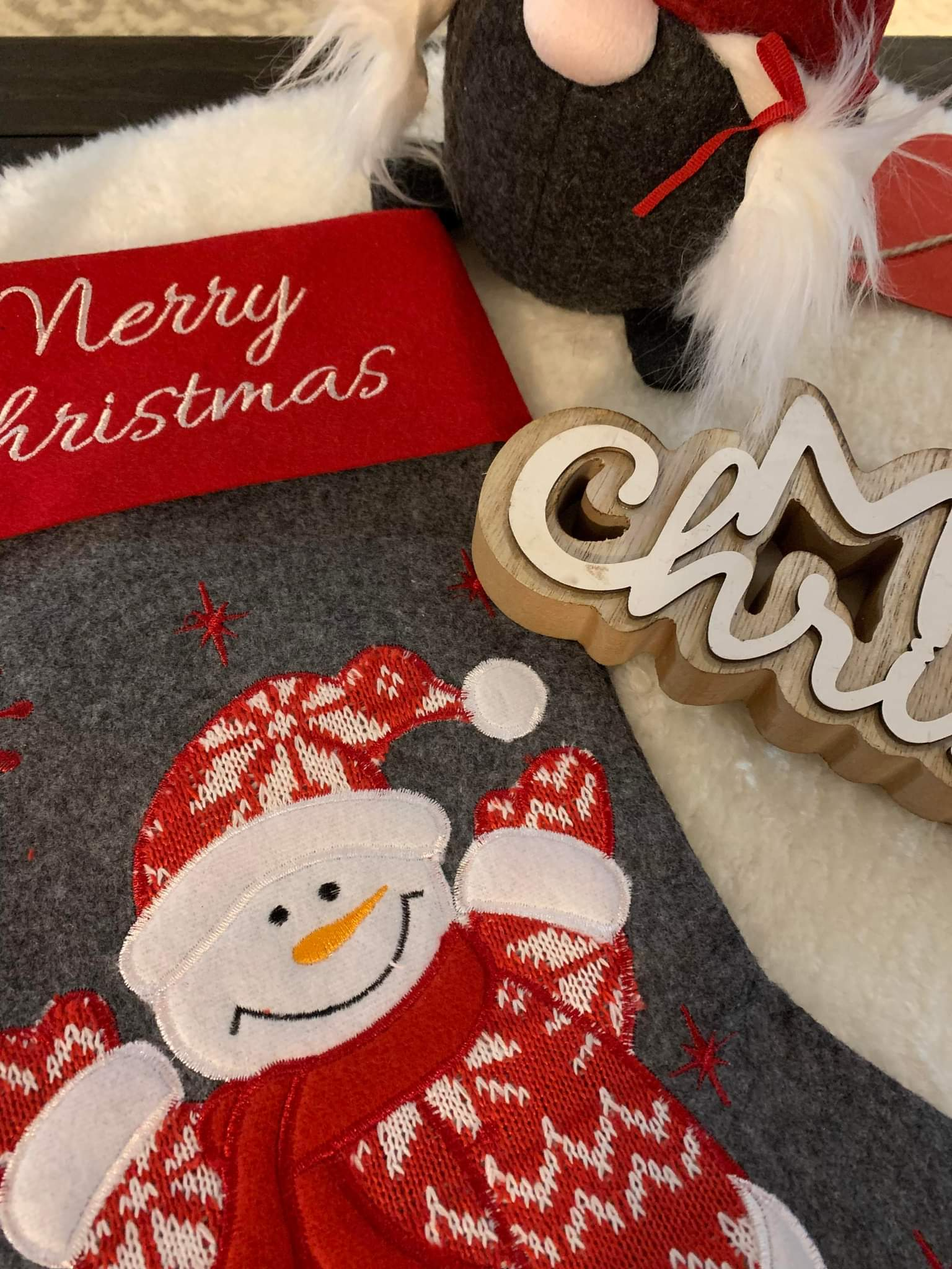
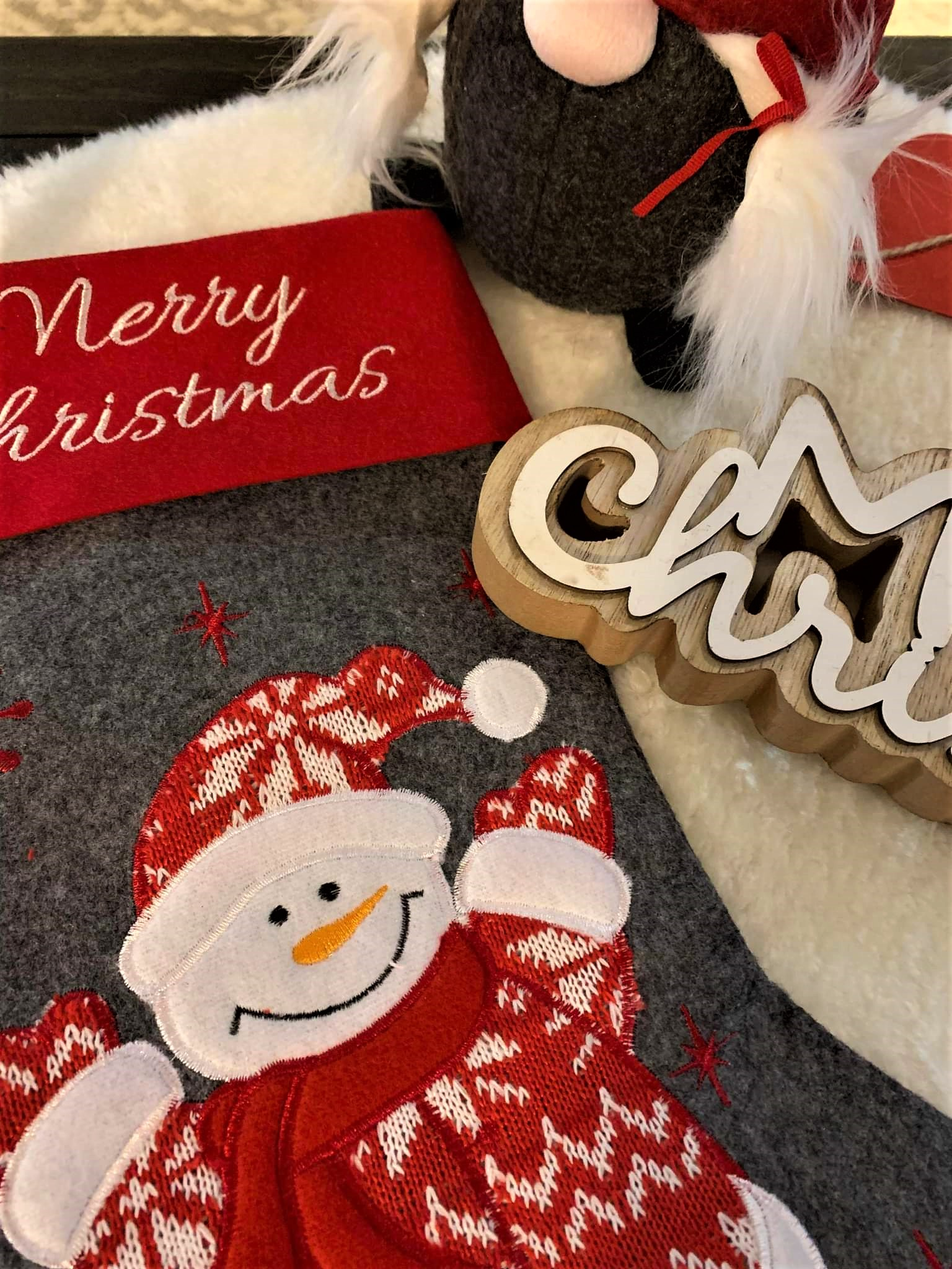
- Added Christmas image to gallery grid
- Updated picture colour intensity

diff --git a/index.html b/index.html
@@ -457,6 +457,18 @@ body,h1,h2,h3,h4,h5,h6 {
         <div class="gallery-item">
           <img src="/images/themes/sweettooth/sweet-tooth-snip3.jpg" onclick="onClick(this)" class="hover-opacity" alt="Sweet Tooth Theme" />
         </div>
+        <div class="gallery-item">
+          <img src="/images/themes/christmas/christmas.jpg" onclick="onClick(this)" class="hover-opacity" alt="Christmas Theme" />
+        </div>
+        <div class="gallery-item">
+          <img src="/images/themes/christmas/christmas-snip1.jpg" onclick="onClick(this)" class="hover-opacity" alt="Christmas Theme" />
+        </div>
+        <div class="gallery-item">
+          <img src="/images/themes/christmas/christmas-snip2.jpg" onclick="onClick(this)" class="hover-opacity" alt="Christmas Theme" />
+        </div>
+        <div class="gallery-item">
+          <img src="/images/themes/christmas/christmas-snip3.jpg" onclick="onClick(this)" class="hover-opacity" alt="Christmas Theme" />
+        </div>
       </div>
       <!-- KEEP THIS Load more button can be used in future -->
 <!--       <div class="row-padding center section">

diff --git a/css/site.css b/css/site.css
@@ -261,7 +261,7 @@ hr{border:0;border-top:1px solid #eee;margin:20px 0}
 .gallery-grid {
     display: grid;
     grid-template-columns: repeat(4, 1fr);
-    grid-template-rows: repeat(4, 14vw);
+    grid-template-rows: repeat(5, 14vw);
     grid-gap: 1px;
 }
 
